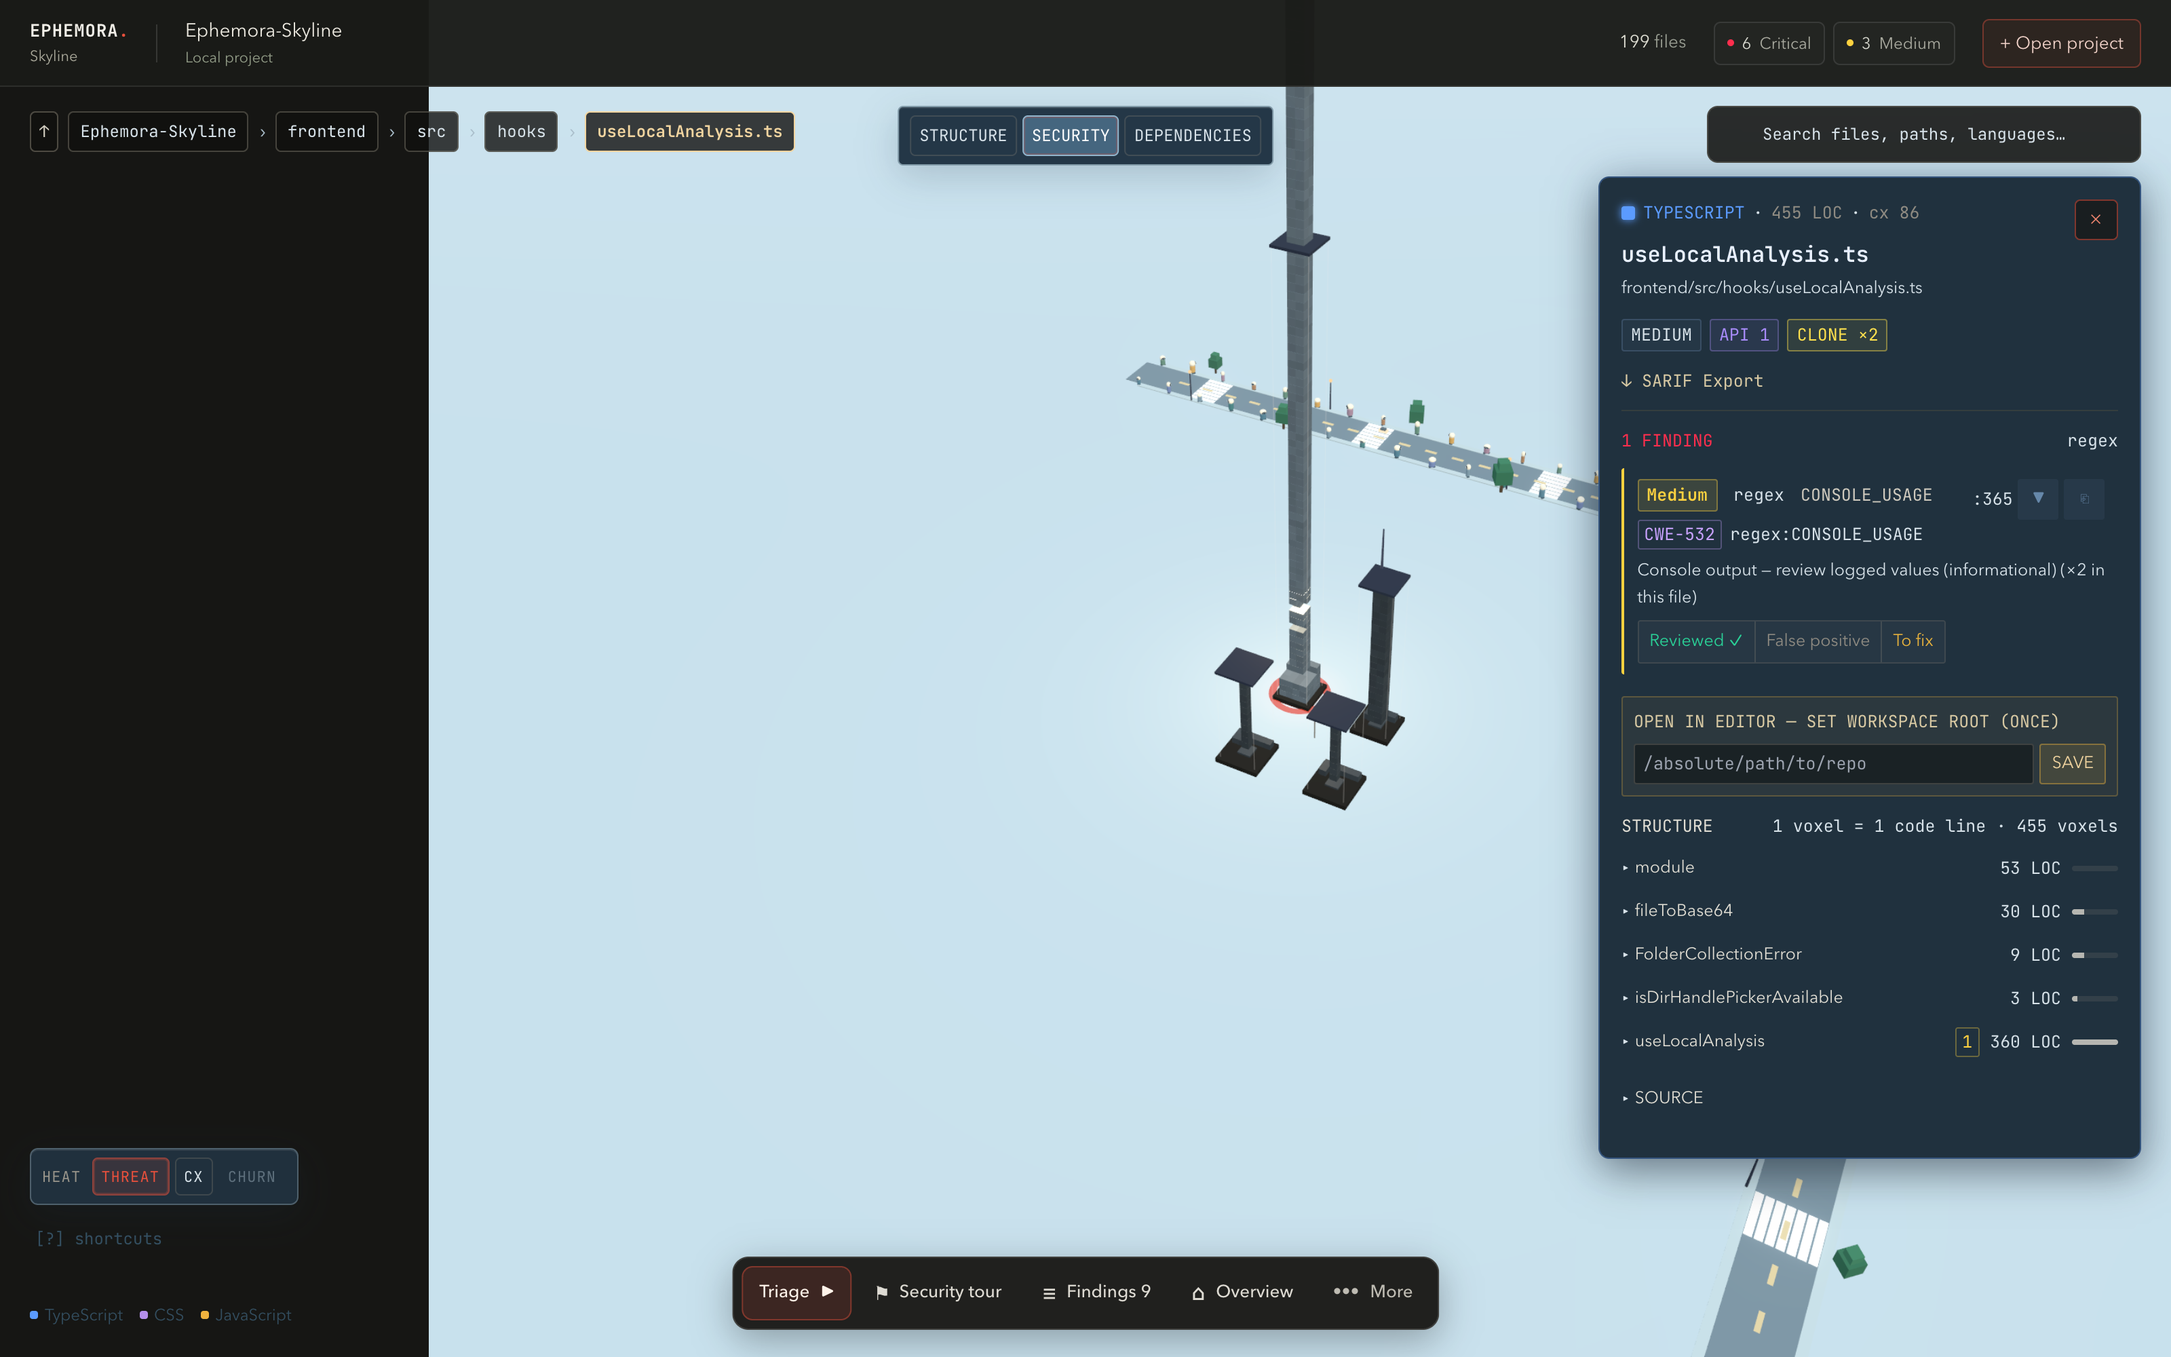
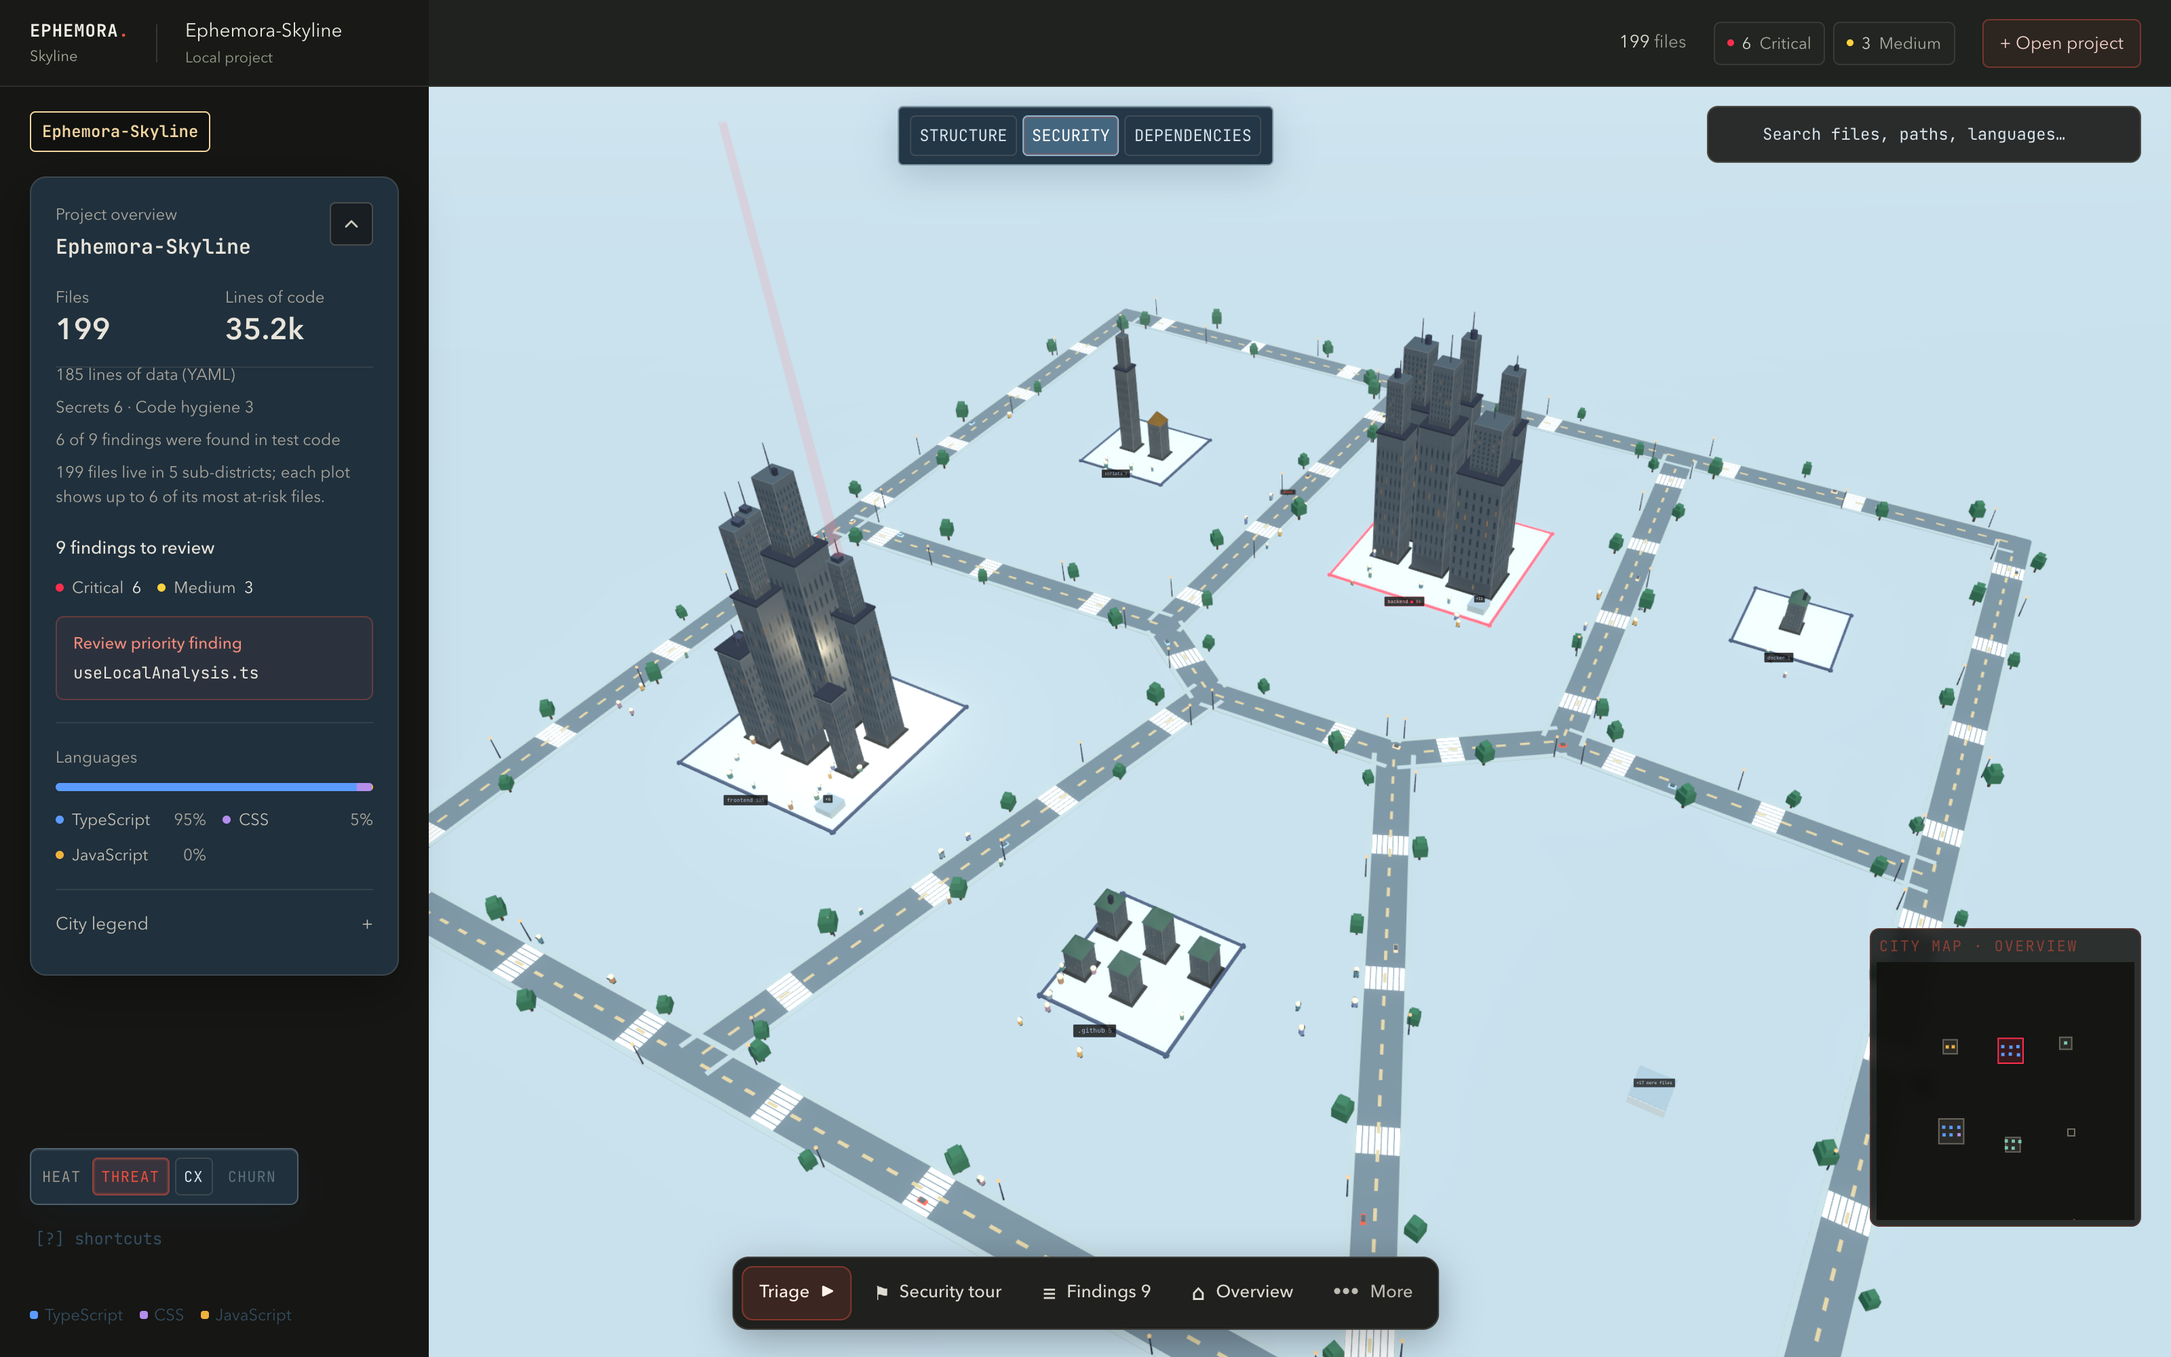
docs(readme): the front page says what the product is, and the gallery says what it shows
Badges first: the set was missing the two that matter to someone deciding in ten
seconds — that this is a private preview, and which gates run on every push — and
the TypeScript badge had quietly fallen behind the tree it describes (5.8 on the
badge, 5.9.3 installed). Every badge in the row now names something checkable:
status, licence, gates, Node, TypeScript, React, three.js, Dependabot. The GitHub
status badge stays out while the repository is private, and the note says why
rather than leaving a gap to wonder about.

Then the prose. "One directory in: the towers that hold findings carry the beams"
described a picture that is not in the file — the shot is the same city in
security mode, so that is the caption now. The unscanned colour was called
"grey-brown"; it is #6b6a63, and the table says that instead of approximating.
"100 files or 50,000" became what the renderer actually guarantees. The language
sentence was wrong since yesterday: the switch is no longer only in the header.

The masking paragraph was behind the code too — it described name-driven erasure,
which is half of what happens now, and nothing said that a finding carries a
fingerprint. Both are in, with the case that found the hole.

And a section that was missing entirely: what this tool will not tell you. A
static scan is a pointer, not a proof; there is no accuracy number because there
is no independent corpus; the one calibration we can show honestly is our own
[…]

diff --git a/README.md b/README.md
@@ -1,46 +1,59 @@
 # Ephemora Skyline
 
+<p align="left">
+  <img alt="Status: private preview" src="https://img.shields.io/badge/status-private%20preview-6b6a63?style=flat&logo=github&logocolor=white">
+  <img alt="License: Business Source License 1.1" src="https://img.shields.io/badge/license-BSL--1.1-informational?style=flat">
+  <img alt="Gates enforced on every push: lint, type-check, tests, build, audit" src="https://img.shields.io/badge/gates-lint%20%C2%B7%20types%20%C2%B7%20tests%20%C2%B7%20build%20%C2%B7%20audit-2c2c29?style=flat&logo=githubactions&logocolor=white">
+  <img alt="Node.js 20 or newer" src="https://img.shields.io/badge/node-%3E%3D20-339933?style=flat&logo=nodedotjs&logocolor=white">
+  <img alt="TypeScript 5.9" src="https://img.shields.io/badge/typescript-5.9-3178c2?style=flat&logo=typescript&logocolor=white">
+  <img alt="React 19" src="https://img.shields.io/badge/react-19-61dafb?style=flat&logo=react&logocolor=000">
+  <img alt="three.js revision 186" src="https://img.shields.io/badge/three.js-r186-000000?style=flat">
+  <img alt="Dependencies updated weekly by Dependabot" src="https://img.shields.io/badge/deps-Dependabot%20weekly-4078c0?style=flat&logo=dependabot&logocolor=white">
+</p>
+
 **Your local codebase, rendered as a living 3D city in daylight.** Point it at a folder and watch it rise: folders become districts, files become buildings, a taller building holds more tangled code, and a red beacon marks a security finding. Your source never leaves the machine.
 
 ![The built city: districts as plots, files as buildings, the riskiest file as a landmark tower with a red beam](docs/assets/ui-workspace.png)
 
-<p align="left">
-  <img alt="Node >=20" src="https://img.shields.io/badge/node-%3E%3D20-339933?style=flat&logo=nodedotjs&logocolor=white">
-  <img alt="TypeScript 5.8" src="https://img.shields.io/badge/typescript-5.8-3178c2?style=flat&logo=typescript&logocolor=white">
-  <img alt="React 19" src="https://img.shields.io/badge/react-19-61dafb?style=flat&logo=react&logocolor=000">
-  <img alt="three.js r186" src="https://img.shields.io/badge/three.js-r186-000000?style=flat">
-  <img alt="License BSL-1.1" src="https://img.shields.io/badge/license-BSL--1.1-informational?style=flat">
-</p>
-
-> No CI badge yet, on purpose: `main` has been green since run [37195376374](https://github.com/MichaelS1011/Ephemora-Skyline/actions/runs/37195376374), but this repository is still private, and a badge served by GitHub only renders for someone who can already read the repo. The badge goes in the day it goes public. The gates below are exactly what CI enforces — run them locally first.
+> **Private preview.** The repository is not public yet, so GitHub's own status badge is left out — it would only render for people who can already read the repo, which is nobody but us. Every gate it would show runs on each push and is listed below; run them locally before you file anything.
 
 ## Why it is different
 
 Most security tooling is a list of findings you scroll. Ephemora Skyline makes a codebase **spatially legible**, so "where is the risk?" is answered by sight before you read a line. Clarity is the first security control — and a number you cannot check is not a measurement, so every channel in the city is a real metric.
 
-| What you see                  | What it encodes                              |
-| ----------------------------- | -------------------------------------------- |
-| Building height               | Cyclomatic complexity of that file           |
-| Red beacon, landmark tower    | Security findings, weighted by risk          |
-| Plot and district             | Folder, with its most at-risk files drawn    |
-| Yellow lasers                 | Copy-paste clones between files              |
-| Red rings                     | Circular imports                             |
-| Blue shield                   | Test coverage, when an `lcov` report exists  |
-| Grey-brown "unscanned" colour | No engine looked here — not a claim of clean |
+| What you see               | What it encodes                              |
+| -------------------------- | -------------------------------------------- |
+| Building height            | Cyclomatic complexity of that file           |
+| Red beacon, landmark tower | Security findings, weighted by risk          |
+| Plot and district          | Folder, with its most at-risk files drawn    |
+| Yellow lasers              | Copy-paste clones between files              |
+| Red rings                  | Circular imports                             |
+| Blue shield                | Test coverage, when an `lcov` report exists  |
+| Grey `#6b6a63` "unscanned" | No engine looked here — not a claim of clean |
 
 - **It builds in front of you.** Every visit starts on an empty lot. Pick a folder and the city assembles — roads, plots, buildings — while the Ephe's, the citizens who do the construction, explain what they are raising.
-- **Scale-independent semantic zoom.** The overview shows one block per top-level folder whether the repo has 100 files or 50,000. Click into a block to open it as its own district. Files that are not drawn show honestly as a podium ("+N more files"), never silently dropped.
+- **Scale-independent semantic zoom.** The overview draws one block per top-level folder — ten folders or ten thousand, the picture stays readable. Click into a block to open it as its own district. Files that are not drawn show honestly as a podium ("+N more files"), never silently dropped.
 - **Security Tour.** The camera flies finding to finding, highest risk first, with a plain-language explanation and a fix suggestion.
 - **Findings you can verify.** Every finding carries its file, its line, a two-line code frame and a link to the rule that fired. Open the file in your editor from the card. Each one also carries a fingerprint — rule, path, line and the (masked) line itself — so a verdict you record survives scanning the same folder again, and the same finding can be named in a report, in the city JSON and by an agent. A finding that moves to another line or into a renamed file counts as a new one, and says so.
 - **Orientation, always.** Breadcrumbs, a minimap showing the real camera position, search-to-fly, keyboard navigation.
 - **Shareable.** PNG export of the current view, SARIF 2.1.0 export of the findings (with the scan's id and each finding's fingerprint as `partialFingerprints`), and a `?city=<id>` link for the person already running the same backend.
+
+## What it will not tell you
+
+Worth reading before the feature list means anything to you.
+
+- **A finding is a rule that matched, not an exploit proven.** Every card says which scanner fired and on what line, so you can check it. The check is the product; the beacon is only the pointer.
+- **There is no accuracy number here, on purpose.** Precision and recall need an annotated corpus that is not this repository. The one scan we can show honestly is our own: its first run reported 68 findings, and 59 of them were quoted test text — a string inside `expect(...)` is not a call to `eval`. That calibration is in the open because it is the useful part.
+- **It does not run your code.** No execution, no fuzzing, no reachability proof. It reads files, and asks four optional external scanners that you installed yourself.
+- **It does not write to your project.** The explanation layer has a voice and no pen. Fixes happen in your editor or your coding agent, and a fresh scan shows what moved.
+- **A city is not an archive.** Results live in the local process — the last 20, for 24 hours. A `?city=` link is a pointer into a running session. Export the SARIF or the PNG if the finding has to outlive the process.
 
 ## Quick start
 
 Requires **Node >= 20** and **npm >= 10**. Optional: `gitleaks`, `semgrep`, `osv-scanner` and `ruff` on `PATH` — without them the corresponding checks report themselves as skipped instead of pretending to have run.
 
 ```bash
-git clone https://github.com/MichaelS1011/Ephemora-Skyline.git
+git clone https://github.com/MichaelS1011/Ephemora-Skyline.git   # private during the preview: works for collaborators
 cd Ephemora-Skyline
 npm install            # workspaces: frontend + backend
 npm run dev            # backend on :4000 + frontend on :3010
@@ -81,9 +94,11 @@ When you pick a folder, the **browser** reads it and posts the contents to the l
 
 **What the staged copy is.** To scan a folder the backend writes it to `$TMPDIR/codecity-uploads/<id>` with owner-only permissions, and keeps it for 24 hours (override with `CODECITY_UPLOAD_DIR` / `CODECITY_UPLOAD_TTL_HOURS`) so the in-city test runner can execute your project's own tests from the city you are looking at. The folder picker sends `.git` too — up to 20 MB of it, in its own budget — because churn, author districts and the deep profile's history scan are impossible without commit history. Local analysis is capped at **3000 files / 40 MB / 2 MB per file** and skips `node_modules`, build output and other directories that never hold relevant source.
 
-**What the saved city carries.** A finding stores the line it was found on plus a two-line code frame, and the result is served as JSON you can export and share. The value of any credential-shaped assignment (`NAME = "…"`, `"NAME": "…"`) is erased to `‹hidden›` before the finding is kept — the name stays, because the name is what tells you where to fix. Masking is not limited to secret findings: it runs on every frame at the scanner boundary, because a `console.log` one line above a password carries that password in its neighbour lines. `.env`, `.env.production` and friends are in the scan surface **because** of that masking, and are read as data — no complexity, no code-shape questions.
+**What the saved city carries.** A finding stores the line it was found on plus a two-line code frame, and the result is served as JSON you can export and share. Credential values are erased to `‹hidden›` before a finding is kept, and the erasure does not trust the variable name: it masks `NAME = "…"` assignments _and_ known token shapes (GitHub, AWS, Slack, Google, Stripe, OpenAI, npm, JWT, private-key headers), because `const pat = "ghp_…"` in a test fixture is a real token behind an innocent name — that exact line is how we found the hole, in our own repository. The name stays, because the name is what tells you where to fix. Masking is not limited to secret findings: it runs on every frame at the scanner boundary, because a `console.log` one line above a password carries that password in its neighbour lines. `.env`, `.env.production` and friends are in the scan surface **because** of that masking, and are read as data — no complexity, no code-shape questions.
 
-**Telemetry: none.** No analytics, no beacon of its own — the only request the app makes for itself is the anonymous release check in the table above. Maintainers measure adoption through [GitHub's traffic and clone statistics](https://docs.github.com/en/rest/metrics/traffic) (`GH_TOKEN=*** node scripts/clone-stats.mjs`), which count clones without identifying anyone.
+**How a finding is named.** Each one carries a fingerprint derived from rule, path, line and the masked line, and it is minted once — the same value in the panel, in the city JSON and in the SARIF export's `partialFingerprints`. That is what lets a verdict you recorded survive scanning the same folder again, and what lets a report or a coding agent point at the same finding you are looking at. It is deliberately not magic: a finding that moves to another line, or into a renamed file, gets a new fingerprint, and verdicts left behind by such a move are counted and named in the panel rather than quietly kept.
+
+**Telemetry: none.** No analytics, no beacon of its own — the only request the app makes for itself is the anonymous release check in the table above. The browser asks nothing before you act either: the UI typeface is bundled, and a test fails if the entry document ever references a third-party host. Maintainers measure adoption through [GitHub's traffic and clone statistics](https://docs.github.com/en/rest/metrics/traffic) (`GH_TOKEN=*** node scripts/clone-stats.mjs`), which count clones without identifying anyone.
 
 **How long a city lives.** Results are held in the backend's memory: the last 20 cities, for 24 hours. A `?city=<id>` link therefore works while that backend process is running — it is a pointer into a live session, not an archive. Export the PNG or the SARIF if you need the finding to outlive the process.
 
@@ -118,17 +133,17 @@ A pack is a directory with a `pack.json` manifest and rule YAML beside it. The m
 
 ## The look
 
-| Entry                                                                                                          | One district, security mode                                      |
-| -------------------------------------------------------------------------------------------------------------- | ---------------------------------------------------------------- |
-| ![Entry screen: profile choice and the folder action, with an annotated sample district](docs/assets/hero.png) | ![A district in security mode](docs/assets/ui-security.png)      |
-| What the tool is, in one screen, before it has anything of yours.                                              | One directory in: the towers that hold findings carry the beams. |
+| Entry                                                                                                          | One district, security mode                                                        |
+| -------------------------------------------------------------------------------------------------------------- | ---------------------------------------------------------------------------------- |
+| ![Entry screen: profile choice and the folder action, with an annotated sample district](docs/assets/hero.png) | ![The same city in security mode](docs/assets/ui-security.png)                     |
+| What the tool is, in one screen, before it has anything of yours.                                              | Security mode: the city darkens, and only the towers holding findings carry beams. |
 
 | A building and its file card                                                         | On a phone                                                  |
 | ------------------------------------------------------------------------------------ | ----------------------------------------------------------- |
 | ![A selected file with its findings](docs/assets/ui-finding.png)                     | ![The same city on a phone](docs/assets/ui-mobile.png)      |
 | Size, complexity, every section, and each finding with the line and rule that fired. | Panels stay inside the viewport; the city stays explorable. |
 
-The interface speaks English and German; the switch is in the header and the choice is remembered.
+The interface speaks English and German. The switch sits in the header of the entry screen and in the **More** menu once you are inside a city, and the choice is remembered across visits.
 
 ## Architecture
 
